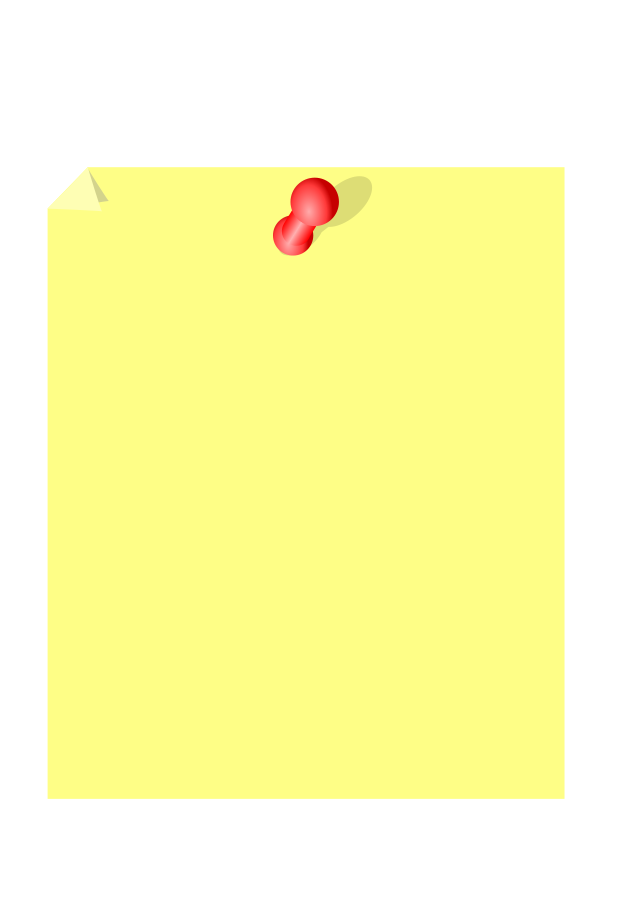
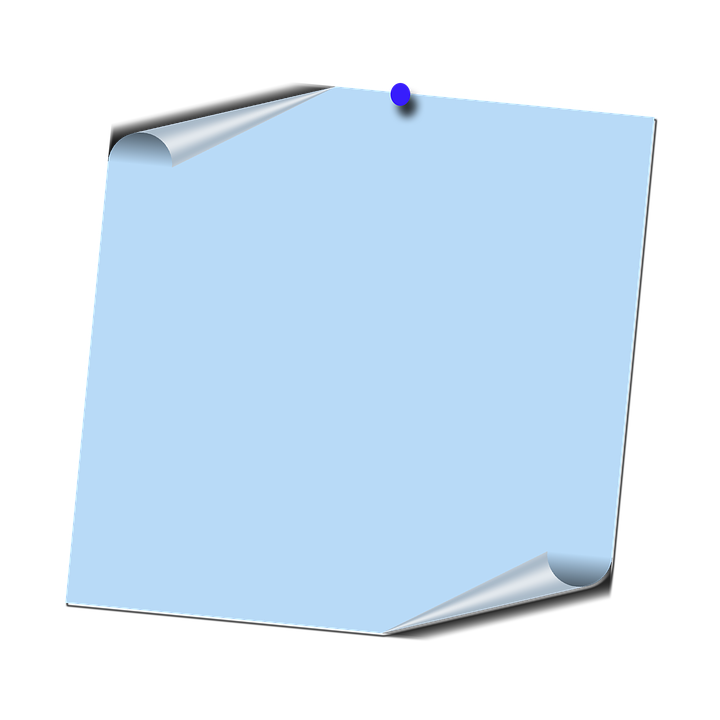
sexual-css
added post it notes to the background

diff --git a/sexualhealth.html b/sexualhealth.html
@@ -34,46 +34,65 @@
   </div>
 </nav>
 
-  <img src= "images/sexualhealthlogo.png" id= imgborder>
+<img src= "images/sexualhealthlogo.png" id= imgborder>
 
-  <div class= 'row'>
+<div class= 'row'>
 
-    <div class= 'col-sm-4'>
-
-      <h2>Alcohol <i class="em em-tropical_drink"></i></h2>
-
+  <div class= 'col-sm-4'>
+    <div>
       <img src= 'images/alcohol.jpg' class= "img-responsive" id=img-border>
-      <blockquote class= "top">
+    </div>
+  </div>
 
-       <p>Alcohol can make you do things you'll regret, including having unprotected or uncosenting sex. Find out the risks and how you can keep yourself safe <a href= "http://www.nhs.uk/Livewell/Sexandyoungpeople/Pages/Sexandalcohol.aspx" target="_blank" class= "link"> here </a> </p>
-     </blockquote>
+ <div class='col-sm-4'>
+  <div class="thumbnail text-center">
+    <img src="images/greenpost.png" class="img-responsive sexpic">
+      <div class="caption" id="sex2-caption">
 
-   </div>
-
-
-   <div class='col-sm-4'>
-
-    <h2>STIs <i <i class="em em-couplekiss"></i></h2>
-
-    <blockquote class= "top">
-     <p>Cases of sexually transmitted infections (STIs), including HIV, are increasing. If you have unprotected sex, your health is at risk. Find out what symptoms to look out for and how to stay safe <a href= "http://www.nhs.uk/Livewell/Sexandyoungpeople/Pages/STIs.aspx" target="_blank" class= "link"> here </a> </p>
-   </blockquote>
-   <img src='images/condoms.jpeg' class= "img-responsive" id=img-border>
-
- </div>
+       <h2>STIs <i <i class="em em-couplekiss"></i></h2>
+       <p>Cases of sexually transmitted infections (STIs), including HIV, are increasing. If you have unprotected sex, your health is at risk. Find out what symptoms to look out for and how to stay safe <a href= "http://www.nhs.uk/Livewell/Sexandyoungpeople/Pages/STIs.aspx" target="_blank" class= "link"> here </a></p>
+      </div>
+    </div>
+  </div>
  
  <div class='col-sm-4'>
-
-   <h2> Sexting <i class="em em-email"></i></h2>
-
-  <img src='https://media.apnarm.net.au/media/images/2013/07/24/25-1227975-gla300811sext2_fct664x404x17x355_t620.jpg' class= "img-responsive" id=img-border>
-  <blockquote class= "top"> 
-    <p>Sending sexual messages of yourself to someone you know might seem harmless, but what happens if these are seen by other people? Find out the facts, the risks and how to protect yourself <a href= "http://www.nhs.uk/Livewell/Sexandyoungpeople/Pages/sexting-images-risk-young-people.aspx" target="_blank" class= "link"> here </a> </p>
-  </blockquote>
-
+    <div>
+     <img src='https://media.apnarm.net.au/media/images/2013/07/24/25-1227975-gla300811sext2_fct664x404x17x355_t620.jpg' class= "img-responsive" id=img-border>
+    </div>
   </div>
 
 </div>
+
+<div class= 'row'>
+
+  <div class= 'col-sm-4'>
+   <div class="thumbnail text-center">
+     <img src="images/tapeyel.png" class="img-responsive">
+      <div class="caption" id="sex1-caption">
+        <h2>Alcohol <i class="em em-tropical_drink"></i></h2>
+        <p class="lead">Alcohol can make you do things you'll regret, including having unprotected or uncosenting sex. Find out the risks and how you can keep yourself safe <a href= "http://www.nhs.uk/Livewell/Sexandyoungpeople/Pages/Sexandalcohol.aspx" target="_blank" class= "link"> here </a> </p>
+      </div>
+    </div>
+  </div>
+
+  <div class='col-sm-4'>
+    <div>
+      <img src='images/condoms.jpeg' class= "img-responsive" id=img-border>
+    </div>
+  </div>
+
+  <div class="col-sm-4">
+    <div class="thumbnail text-center">
+      <img src="images/pinyellow.png" class="img-responsive">
+      <div class="caption" id="sexcol3">
+
+       <h2> Sexting <i class="em em-email"></i></h2>
+       <p class="lead">Sending sexual messages of yourself to someone you know might seem harmless, but what happens if these are seen by other people? Find out the facts, the risks and how to protect yourself <a href= "http://www.nhs.uk/Livewell/Sexandyoungpeople/Pages/sexting-images-risk-young-people.aspx" target="_blank" class= "link"> here </a> </p>
+      </div>
+    </div>  
+  </div>
+</div>
+
 
 <p id= "signup">Sign up for our monthly newsletter!</p> 
 <input type= "text" name= "textbox" size= "30"/ placeholder="Email Address"> <button type="button">Subscribe</button> 

diff --git a/mental health.html b/mental health.html
@@ -38,14 +38,13 @@
  	  	 	<img src="images/notebookPaper.png" class="img-responsive">
  	  	 	<div class="caption" id="par1-caption">
  	 			<h2>Get informed</h2>
- 	 		
-
-				<p>
+ 	 			<p>
 					Feeling homesick is normal and most people go through that phase at Uni. But it's important to remember that you are <mark class="first">not alone</mark>. Talk to your <mark class="first">department</mark>, check the <a target="_blank" class="text-success" href="https://www.sheffield.ac.uk/ssid/contacts/advice"><b>Student Advice Centre's website</b></a> or seek help from <a target="_blank" class="text-success" href="https://www.sheffield.ac.uk/ssd/ssg/cwag"><b>Central Welfare and Guidance</b></a> (CWaG). You can be sure that the difficulties you're experiencing now can be dealt with professionally, you don't have to cope with them alone.
 				</p>
 			</div>
 	  </div>
  	</div>
+
  	 <div class='col-sm-4'>
  	 	<div class="thumbnail text-center ">
  	 		<img src="images/piles.png" class="img-responsive">
@@ -57,6 +56,7 @@
  	 		</div>
  		 </div>
  	 </div>
+
  	 <div class='col-sm-4'>
  	 	<div class="thumbnail text-center">
  	 		<img src="images/tape.png" class="img-responsive">
@@ -71,6 +71,7 @@
 	</div>
   	</div>
   	</div>
+
   	<div class="row">
   	 	<div class='col-sm-4'>
  	 		<div>

diff --git a/project.css b/project.css
@@ -193,9 +193,26 @@ p {
 .postit:hover {
  color: white;
  text-decoration: none;
-}#par3-caption {
+}
+#par3-caption {
 	position: absolute;
     padding: 5px 26px 5px 26px;
     top: 0px;
     font-size: 20px;
+}
+#sex1-caption {
+	position: absolute;
+    padding: 80px 50px 0px 45px;
+    top: 0px;
+}
+#sex2-caption {
+	position: absolute;
+	padding: 20px 85px 30px 85px;
+	top: 0px;
+	font-size: 16px;
+}
+#sexcol3 {
+	position: absolute;
+	top: 0px;
+	padding: 40px 30px 20px 47px;
 }
